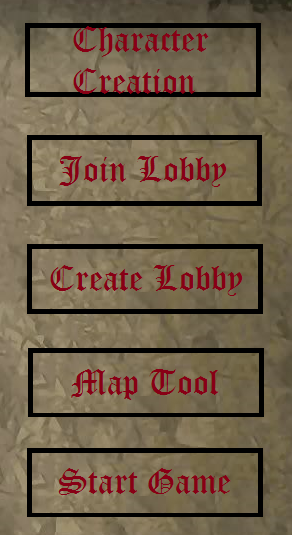
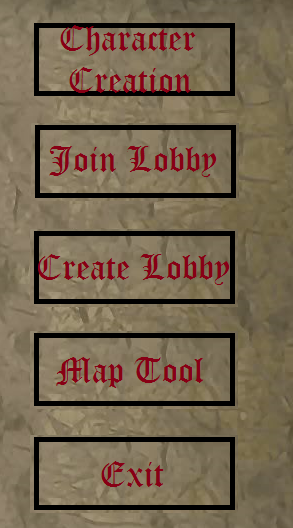
newMainMenu

diff --git a/src/DD/GUI/Menu.java b/src/DD/GUI/Menu.java
@@ -31,11 +31,11 @@ public class Menu extends BasicGameState
 	public void init(GameContainer gc, StateBasedGame sbg)throws SlickException
 	{
 		dungeon = new Music("Audio/Gauntlet.wav");
-		dungeon.loop();
+		//dungeon.loop();
 		screen = new Image("Images/Menus/menuscreen5.jpg");
 		playNow = new Image("Images/Menus/MenuButtons.png"); // Contains the menu button options
 		
-		exitButton = new Image("Images/Menus/exitButton.png");
+		
 		
 		button = new Sound("Audio/dunSound.wav");
 	}
@@ -44,12 +44,11 @@ public class Menu extends BasicGameState
 	{
 		
 		screen.draw(0,0);
-		playNow.draw(100,50); // Image with the menu button options.
+		playNow.draw(100,100); // Image with the menu button options.
 		
 		g.drawString(mousePos, 100, 10);
 		
-		exitButton.draw(142, 580);
-		
+				
 	}
 	
 	public void update(GameContainer gc, StateBasedGame sbg,int delta)throws SlickException
@@ -58,7 +57,7 @@ public class Menu extends BasicGameState
 		int posY = mouse.getMouseY();
 		
 		//Join Lobby button
-		if((posX > 130 && posX < 360) && (posY > 187 && posY < 254))
+		if((posX > 136 && posX < 334) && (posY > 227 && posY < 297))
 		{
 			if(gc.getInput().isMousePressed(gc.getInput().MOUSE_LEFT_BUTTON))
 			{
@@ -69,7 +68,7 @@ public class Menu extends BasicGameState
 		}
 		
 		//Create Lobby
-		if((posX > 130 && posX < 360) && (posY > 295 && posY < 360))
+		if((posX > 136 && posX < 334) && (posY > 333 && posY < 402))
 		{
 			if(gc.getInput().isMousePressed(gc.getInput().MOUSE_LEFT_BUTTON))
 			{
@@ -78,18 +77,10 @@ public class Menu extends BasicGameState
 			}
 		}
 		
-		//START game
-		if((posX > 130 && posX < 360) && (posY > 500 && posY < 566))
-		{
-			if(gc.getInput().isMousePressed(gc.getInput().MOUSE_LEFT_BUTTON))
-			{
-				button.play();
-				sbg.enterState(4);
-			}
-		}
+		
 		
 		//exit button
-		if((posX > 146 && posX < 338) && (posY > 584 && posY < 642))
+		if((posX > 136 && posX < 334) && (posY > 539 && posY < 606))
 		{
 			if(gc.getInput().isMousePressed(gc.getInput().MOUSE_LEFT_BUTTON))
 			{
@@ -99,7 +90,7 @@ public class Menu extends BasicGameState
 		}
 		
 		//map tool button
-		if((posX > 130 && posX < 362) && (posY > 400 && posY < 464))
+		if((posX > 136 && posX < 334) && (posY > 434 && posY < 503))
 		{
 			if(gc.getInput().isMousePressed(gc.getInput().MOUSE_LEFT_BUTTON))
 			{
@@ -110,7 +101,7 @@ public class Menu extends BasicGameState
 		
 		//CREATE CHARACTER
 		
-		if((posX > 128 && posX < 359) && (posY > 75 && posY < 145 ))
+		if((posX > 136 && posX < 334) && (posY > 123 && posY < 193 ))
 		{
 			if(gc.getInput().isMousePressed(gc.getInput().MOUSE_LEFT_BUTTON))
 			{
